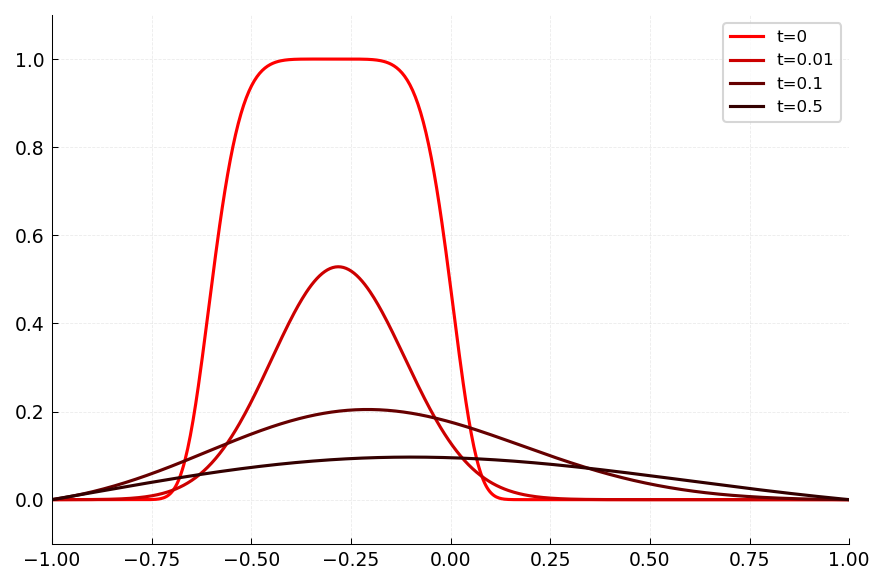
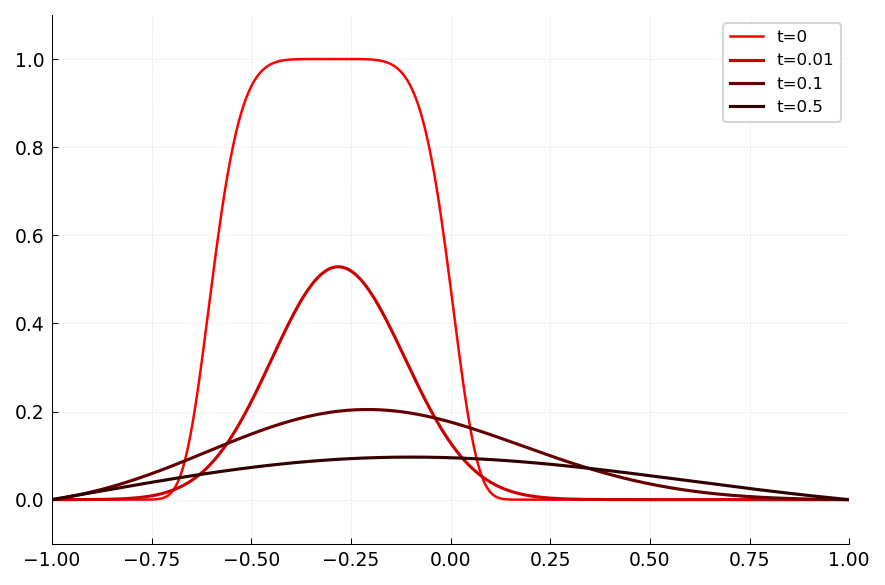
fix: remaining guide scripts updated to library plot functions
Guide 07 script updated. All 15 guide scripts now use cj.plot_1d(),
plot_sphere(), surf(), contour(), plot_disk(), plot_chebfun3() instead
of ad-hoc matplotlib.

Changed region(s): [[0.3051, 0.0923, 0.4576, 0.1231], [0.5492, 0.8308, 0.6102, 0.8615], [0.1525, 0.8308, 0.1831, 0.8615]]

diff --git a/scripts/generate_guide07_plots.py b/scripts/generate_guide07_plots.py
@@ -234,8 +234,8 @@ except Exception as e:
 try:
     f_heat = cj.chebfun(lambda x: jnp.exp(-1000*(x + 0.3)**6))
     fig, ax = plt.subplots(figsize=(6, 4))
+    cj.plot_1d(f_heat, ax=ax, color='red', label='t=0')
     tt = jnp.linspace(-1, 1, 600)
-    ax.plot(tt, np.array(f_heat(tt)), color='red', linewidth=1.5, label='t=0')
     for t_val, shade in [(0.01, (0.8, 0, 0)), (0.1, (0.4, 0, 0)), (0.5, (0.2, 0, 0))]:
         sigma = np.sqrt(2 * t_val)
         xs_np = np.array(tt); x0 = -0.3